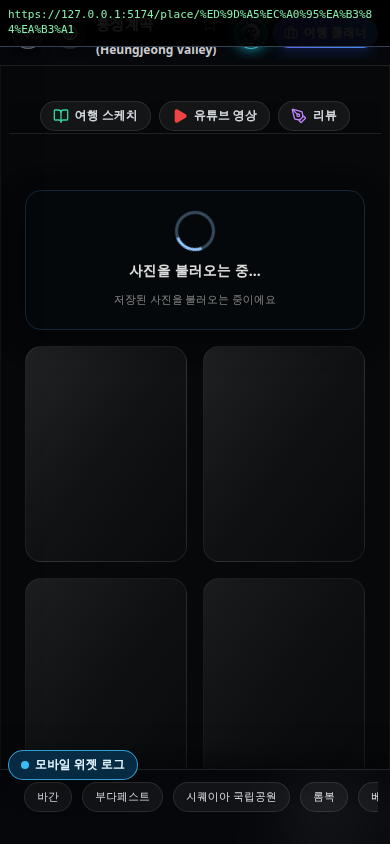
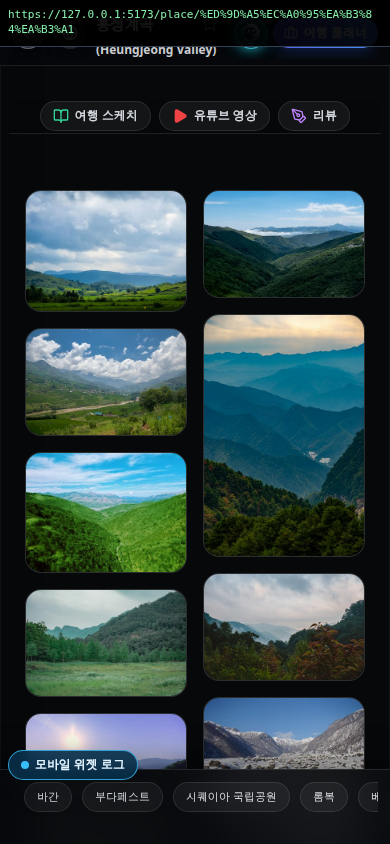
docs(qa): PR #477 rebase 후 390 real-user Chromium/WebKit 캡처

diff --git a/docs/qa/pr-site-search/README.md b/docs/qa/pr-site-search/README.md
@@ -1,0 +1,30 @@
+# Site search QA (VITE_GATEO_SITE_SEARCH=1)
+
+Captured from `https://127.0.0.1:5173` · viewport **390px** clip (headless).
+
+## Real-user path (PR #477) — home → explore search → place
+
+| Region | Query | Browser | File | URL |
+|--------|-------|---------|------|-----|
+| 평창 (흥정계곡) | 흥정계곡 | Chromium | real-user-heungjeong-chromium-390.png | `/` (catalog pin; gallery must load) |
+| 평창 (흥정계곡) | 흥정계곡 | WebKit | real-user-heungjeong-webkit-390.png | `/` |
+| 강릉 | 경포대 | Chromium | real-user-gangneung-gyeongpodae-chromium-390.png | `/place/gyeongpodae` |
+| 강릉 | 경포대 | WebKit | real-user-gangneung-gyeongpodae-webkit-390.png | `/place/gyeongpodae` |
+| 제주 | 성산일출봉 | Chromium | real-user-jeju-seongsan-chromium-390.png | `/place/seongsan-ilchulbong` |
+| 제주 | 성산일출봉 | WebKit | real-user-jeju-seongsan-webkit-390.png | `/place/seongsan-ilchulbong` |
+
+Script: `node scripts/capture-site-search-real-user-477.mjs` (optional `ONLY_BROWSER=chromium|webkit`).
+
+## Explore / AI-limit regression set
+
+| Scenario | File | URL |
+|----------|------|-----|
+| 흥정계곡 suggestions · 평창 region | heungjeong-suggest-region-390.png | https://127.0.0.1:5173/explore |
+| 흥정계곡 Enter | heungjeong-enter-390.png | https://127.0.0.1:5173/ |
+| AI limit + /place/흥정계곡 link | ai-limit-links-390.png | https://127.0.0.1:5173/explore |
+| Clicked /place/흥정계곡 | ai-limit-place-open-390.png | https://127.0.0.1:5173/place/%ED%9D%A5%EC%A0%95%EA%B3%84%EA%B3%A1 |
+| 경포대 | gyeongpoda-390.png | https://127.0.0.1:5173/place/gyeongpodae |
+| 성산일출봉 | seongsan-ilchulbong-390.png | https://127.0.0.1:5173/place/seongsan-ilchulbong |
+| 평창 Enter | pyeongchang-county-390.png | https://127.0.0.1:5173/explore |
+
+Script: `node scripts/capture-site-search-qa-docs.mjs`

diff --git a/docs/qa/pr-site-search/real-user-477-manifest.md b/docs/qa/pr-site-search/real-user-477-manifest.md
@@ -1,0 +1,9 @@
+# PR #477 real-user captures (390px)
+
+Base: `https://127.0.0.1:5173` · viewport 390×844 clip
+
+| Place | Browser | File | URL |
+|-------|---------|------|-----|
+| 흥정계곡 · webkit | webkit | real-user-heungjeong-webkit-390.png | https://127.0.0.1:5173/ |
+| 경포대 · webkit | webkit | real-user-gangneung-gyeongpodae-webkit-390.png | https://127.0.0.1:5173/place/gyeongpodae |
+| 성산일출봉 · webkit | webkit | real-user-jeju-seongsan-webkit-390.png | https://127.0.0.1:5173/place/seongsan-ilchulbong |
